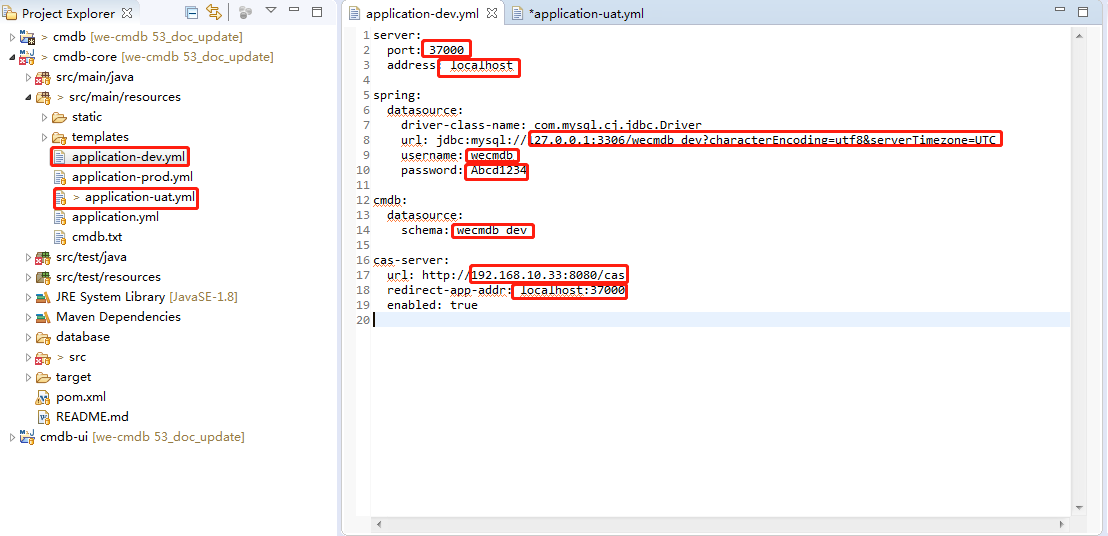
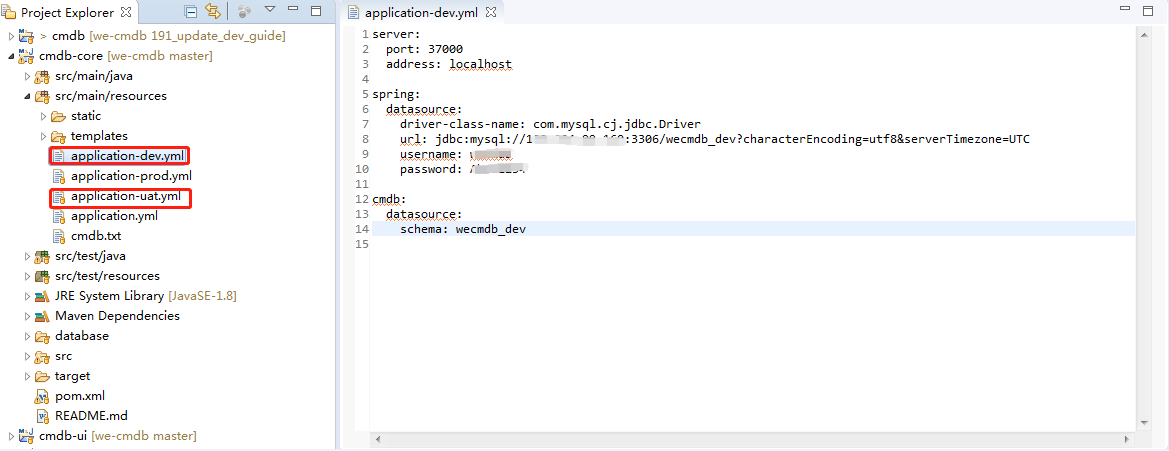
update dev guide , #191

Changed region(s): [[0.0, 0.0, 1.0, 1.0]]

diff --git a/cmdb-wiki/docs/developer/wecmdb_developer_guide.md b/cmdb-wiki/docs/developer/wecmdb_developer_guide.md
@@ -13,22 +13,10 @@
 	
 	需要有一个Mysql数据库， 也可以在开发电脑上安装Mysql，请参考[Mysql安装文档](mysql_install_guide.md)
 
-4. 安装CAS
-	
-	需要有一个CAS服务， 也可以在开发电脑上安装cas。dockerhub上有容器镜像，可以直接下载安装。
-	
-	命令如下：
-	
-	```
-	docker pull kawhii/sso
-	docker run -d --name cas -p 8443:8443 -p 8878:8080 kawhii/sso
-	```
-	
-	CAS默认用户密码：admin/123
-
-5. 安装node.js
+4. 安装node.js
 	
 	访问node.js官方网站：http://nodejs.cn/download， 下载v10.16.3版本。双击下载后的安装文件， 按默认配置进行安装。
+
 
 
 ## 导入工程
@@ -78,7 +66,7 @@
 	在 *Project Explorer* 视图中，将 *application-uat.yml* 复制一份，更名为 *application-dev.yml*
 	![wecmdb_import_7](images/wecmdb_import_7.png)
 	
-	打开 *application-dev.yml* ，修改相关配置，
+	打开 *application-dev.yml* ，修改相关配置，开发模式下无需CAS， 可将CAS相关配置去掉。
 	
 	application-dev.yml配置示例：
 
@@ -98,10 +86,6 @@
 	  datasource:
 	    schema: wecmdb_dev
 	
-	cas-server:
-	  url: http://192.168.10.33:8080/cas
-	  redirect-app-addr: localhost:37000
-	  enabled: true
 	```
 
 5. 启动WeCMDB后端
@@ -118,23 +102,33 @@
 
 	![wecmdb_start](images/wecmdb_start.png)
 	
-	打开 *http://localhost:37000/cmdb/swagger-ui.html* 打开 *swagger* 页面， 输入cas登录用户及密码，即可查看并测试API
+	在浏览器输入 *http://localhost:37000/cmdb/swagger-ui.html* 会跳转到登录页面
+
+	![wecmdb_swagger_login](images/wecmdb_swagger_login.png)
+
+	输入用户后确认， 会重定向到首页index页面
+
+	![wecmdb_swagger_redirect](images/wecmdb_swagger_redirect.png)
+
+	需要重新输入 *http://localhost:37000/cmdb/swagger-ui.html* , 进入swagger页面
 
 	![wecmdb_swagger_ui](images/wecmdb_swagger_ui.png)
 
 
 6. 启动WeCMDB前端
 	
-	运行CMD（Win+R或右下角点开始菜单的输入处），在展开的命令行窗口中,进入we-cmdb的代码子目录wecmbd-ui目录
+	运行CMD（Win+R或右下角点开始菜单的输入处），在展开的命令行窗口中,进入we-cmdb的代码子目录wecmdb-ui目录
 
 	![wecmdb_ui_npm_install](images/wecmdb_ui_npm_install.png)
 	
 	执行npm安装命令
 	
 	```
-	npm i
+	npm install
 	```
 	
+	![wecmdb_ui_npm_install](images/wecmdb_ui_npm_install_end.png)
+
 	安装完成后， 执行命令
 
 	
